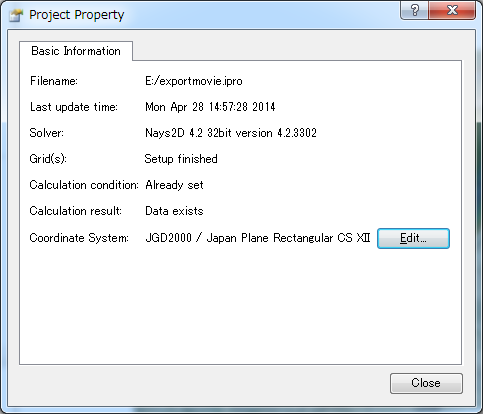
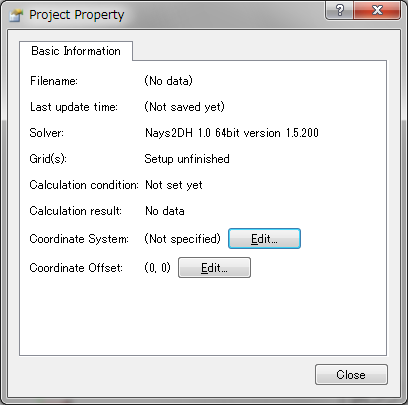
Description about coordinate system setting dialog and offset dialog are added to [Property] menu page.

diff --git a/source/03/03_06_property.rst b/source/03/03_06_property.rst
@@ -5,10 +5,37 @@
 :numref:`image_project_property_dialog` shows an example of
 the [Project Property] dialog.
 
-You can specify the coordinate system from this dialog.
+You can specify the coordinate system and offset from this dialog.
+
+When you click on [Edit] button next to [Coordinate System], the
+dialog in :numref:`image_select_coordsystem_dialog` appears,
+and you can choose the coordinate system
+for your geographic data and grid.
+
+When you click on [Edit] button next to [Coordinate Offset], the
+dialog in :numref:`image_offset_setting_dialog` appears, and you can
+input the offset for the coordinates.
+
+When you want to use geographic data and grids very far from the origin
+point of the coordinate system (for example, using UTM coordinate System
+and handles geographic data far from equator), inputting offset will
+reduce the truncation error. In such cases, please input the x and y
+for some point near to your geographic data (or grid).
 
 .. _image_project_property_dialog:
 
 .. figure:: images/project_property_dialog.png
 
    The [Project Property] dialog
+
+.. _image_select_coordsystem_dialog:
+
+.. figure:: images/select_coordsystem_dialog.png
+
+   The [Select Coordinate System] dialog
+
+.. _image_offset_setting_dialog:
+
+.. figure:: images/offset_setting_dialog.png
+
+   The [Offset Setting] dialog
